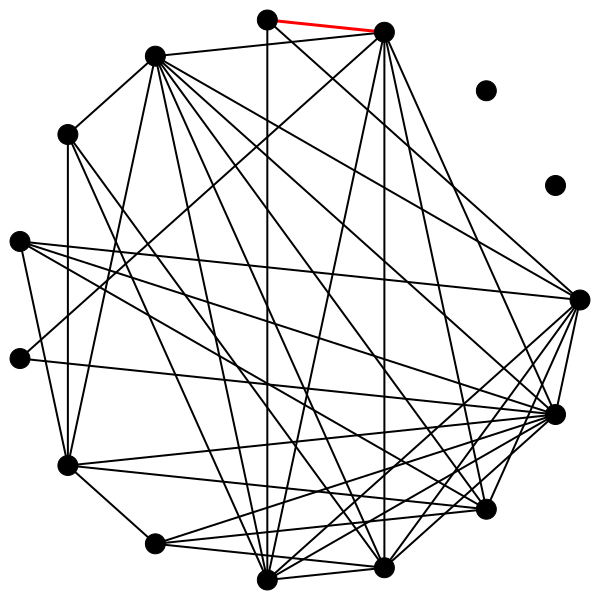
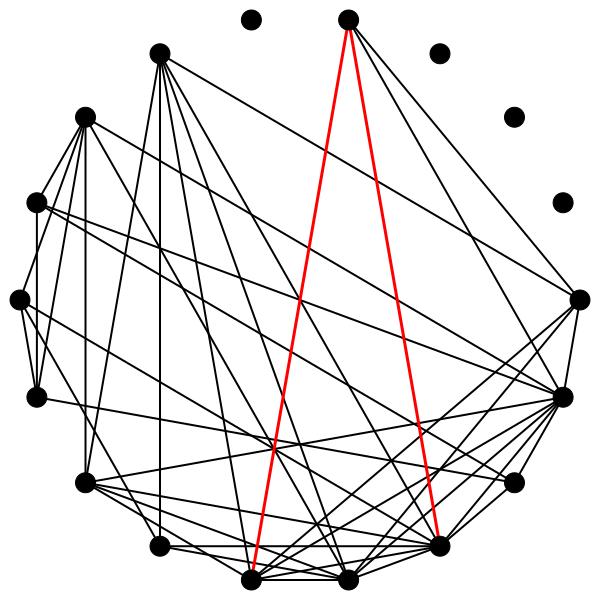
more Gtilde

diff --git a/GDS/G_tilde.py b/GDS/G_tilde.py
@@ -13,7 +13,7 @@ import imageio
 from igraph import layout
 
 # Parameters:
-n = 15       # size of G
+n = 18       # size of G
 d = 0.5  # density of G
 nTry = 1000             # max number of try at generating a graph without 
 igraph_use = True
